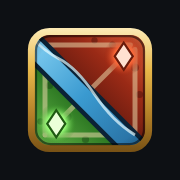
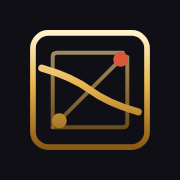
Новый логотип: миникарта в золотых линиях (меню, иконка вкладки, иконки приложения)
Claude-Session: https://claude.ai/code/session_012aQS4ELDHnsMw6dJfHtnZg

diff --git a/index.html b/index.html
@@ -28,26 +28,7 @@ try{var t=localStorage.getItem('kontrpik-theme');if(t!=='light'&&t!=='dark')t=ma
 </head>
 <body>
 <div class="bg-art" aria-hidden="true"></div>
-  <nav class="nav topbar" id="topbar" aria-label="Разделы" data-ta="navLabel"><a class="logo" id="home-link" href="#home" aria-label="На главную" data-ta="homeLabel" title="На главную"><svg class="logo-ic" width="40" height="40" viewBox="0 0 64 64" aria-hidden="true" focusable="false"><defs><linearGradient id="glg" gradientUnits="userSpaceOnUse" x1="0" y1="2" x2="0" y2="62"><stop offset="0" stop-color="#fff1c4"/><stop offset=".35" stop-color="#e8b84a"/><stop offset=".7" stop-color="#b07d26"/><stop offset="1" stop-color="#6e4a12"/></linearGradient>
-<linearGradient id="radlg" x1="0" y1="1" x2=".7" y2=".3"><stop offset="0" stop-color="#7fd65a"/><stop offset=".55" stop-color="#2f7a24"/><stop offset="1" stop-color="#173f13"/></linearGradient>
-<linearGradient id="direlg" x1="1" y1="0" x2=".3" y2=".7"><stop offset="0" stop-color="#ff7a4a"/><stop offset=".5" stop-color="#9a2a16"/><stop offset="1" stop-color="#3e0f0a"/></linearGradient>
-<linearGradient id="rivlg" x1="0" y1="0" x2="1" y2="1"><stop offset="0" stop-color="#9fe3ff"/><stop offset=".5" stop-color="#3a9ad0"/><stop offset="1" stop-color="#1f5a8a"/></linearGradient>
-<radialGradient id="rblg"><stop offset="0" stop-color="#f0ffe0"/><stop offset=".45" stop-color="#9bff7a"/><stop offset="1" stop-color="#2f8a1f" stop-opacity="0"/></radialGradient>
-<radialGradient id="dblg"><stop offset="0" stop-color="#fff0e0"/><stop offset=".45" stop-color="#ff6a3a"/><stop offset="1" stop-color="#a0200a" stop-opacity="0"/></radialGradient>
-<radialGradient id="shadelg" cx=".5" cy=".5" r=".7"><stop offset=".6" stop-color="#000" stop-opacity="0"/><stop offset="1" stop-color="#000" stop-opacity=".45"/></radialGradient>
-<clipPath id="clg"><rect x="6" y="6" width="52" height="52" rx="8"/></clipPath></defs><g clip-path="url(#clg)">
-<rect x="0" y="0" width="64" height="64" fill="url(#direlg)"/>
-<path d="M0 64 L0 0 L64 64 Z" fill="url(#radlg)"/>
-<g opacity=".35"><circle cx="14" cy="30" r="1.6" fill="#0d2a0a"/><circle cx="22" cy="44" r="1.8" fill="#0d2a0a"/><circle cx="10" cy="46" r="1.4" fill="#0d2a0a"/><circle cx="30" cy="54" r="1.6" fill="#0d2a0a"/>
-<circle cx="42" cy="12" r="1.6" fill="#2a0806"/><circle cx="52" cy="22" r="1.8" fill="#2a0806"/><circle cx="34" cy="10" r="1.4" fill="#2a0806"/><circle cx="54" cy="34" r="1.6" fill="#2a0806"/></g><g fill="none" stroke="#e8d6a8" stroke-opacity=".55" stroke-width="2.2" stroke-linecap="round">
-<path d="M12 52 L12 14 Q12 12 14 12 L50 12"/><path d="M12 52 L50 52 Q52 52 52 50 L52 14"/><path d="M14 50 L50 14"/></g><path d="M-4 2 L62 68" stroke="#0b2236" stroke-width="12"/>
-<path d="M-4 2 L62 68" stroke="url(#rivlg)" stroke-width="8"/>
-<path d="M2 4 Q10 14 18 18 T34 34 T52 52" fill="none" stroke="#e8fbff" stroke-width="1.2" stroke-opacity=".7"/>
-<circle cx="17" cy="47" r="9" fill="url(#rblg)"/><circle cx="47" cy="17" r="9" fill="url(#dblg)"/>
-<path d="M17 41 L21 47 L17 53 L13 47 Z" fill="#eaffd8" stroke="#1f5a12" stroke-width="1"/>
-<path d="M47 11 L51 17 L47 23 L43 17 Z" fill="#ffe0d0" stroke="#6a1a0a" stroke-width="1"/>
-<rect x="0" y="0" width="64" height="64" fill="url(#shadelg)"/>
-</g><rect x="6" y="6" width="52" height="52" rx="8" fill="none" stroke="url(#glg)" stroke-width="3.2"/><rect x="8" y="8" width="48" height="48" rx="6.5" fill="none" stroke="#000" stroke-opacity=".5" stroke-width="1"/></svg></a><div class="tabs-nav"><a href="#counterpick"><span class="n">01</span><span data-t="nav1">Контрпик</span></a><a href="#meta"><span class="n">02</span><span data-t="nav3">Мета</span></a><a href="#match"><span class="n">03</span><span data-t="nav4">Разбор</span></a><a href="#tips-block"><span class="n">04</span><span data-t="nav2">Фишки</span></a></div><div class="nav-actions"><button class="install" id="install" hidden data-t="install">Установить</button><button class="theme-btn" id="theme-btn" type="button"><svg class="i-sun" width="20" height="20" viewBox="0 0 24 24" aria-hidden="true"><circle cx="12" cy="12" r="4.2"/><path d="M12 2.5v2.6M12 18.9v2.6M2.5 12h2.6M18.9 12h2.6M5.3 5.3l1.8 1.8M16.9 16.9l1.8 1.8M5.3 18.7l1.8-1.8M16.9 7.1l1.8-1.8"/></svg><svg class="i-moon" width="20" height="20" viewBox="0 0 24 24" aria-hidden="true"><path d="M20 14.6A8.2 8.2 0 0 1 9.4 4a8.2 8.2 0 1 0 10.6 10.6Z"/></svg></button><div class="lang" role="group" aria-label="Language"><button data-lang="ru">RU</button><button data-lang="en">EN</button></div></div></nav>
+  <nav class="nav topbar" id="topbar" aria-label="Разделы" data-ta="navLabel"><a class="logo" id="home-link" href="#home" aria-label="На главную" data-ta="homeLabel" title="На главную"><svg class="logo-ic" width="40" height="40" viewBox="0 0 64 64" aria-hidden="true" focusable="false"><defs><linearGradient id="lgC" gradientUnits="userSpaceOnUse" x1="0" y1="6" x2="0" y2="58"><stop offset="0" stop-color="#fff3cc"/><stop offset=".45" stop-color="#e9b64e"/><stop offset="1" stop-color="#8a5a14"/></linearGradient></defs><rect x="6" y="6" width="52" height="52" rx="7" fill="#0f0f15" stroke="url(#lgC)" stroke-width="2.6"/><g fill="none" stroke="url(#lgC)" stroke-linecap="round"><path d="M15 49V17q0-2 2-2h30" stroke-width="1.8" opacity=".6"/><path d="M15 49h32q2 0 2-2V17" stroke-width="1.8" opacity=".6"/><path d="M17 47 47 17" stroke-width="1.8" opacity=".6"/><path d="M10 22q14 4 22 10t22 10" stroke-width="3.2"/></g><circle cx="18" cy="46" r="3.4" fill="url(#lgC)"/><circle cx="46" cy="18" r="3.4" fill="#d9573a"/></svg></a><div class="tabs-nav"><a href="#counterpick"><span class="n">01</span><span data-t="nav1">Контрпик</span></a><a href="#meta"><span class="n">02</span><span data-t="nav3">Мета</span></a><a href="#match"><span class="n">03</span><span data-t="nav4">Разбор</span></a><a href="#tips-block"><span class="n">04</span><span data-t="nav2">Фишки</span></a></div><div class="nav-actions"><button class="install" id="install" hidden data-t="install">Установить</button><button class="theme-btn" id="theme-btn" type="button"><svg class="i-sun" width="20" height="20" viewBox="0 0 24 24" aria-hidden="true"><circle cx="12" cy="12" r="4.2"/><path d="M12 2.5v2.6M12 18.9v2.6M2.5 12h2.6M18.9 12h2.6M5.3 5.3l1.8 1.8M16.9 16.9l1.8 1.8M5.3 18.7l1.8-1.8M16.9 7.1l1.8-1.8"/></svg><svg class="i-moon" width="20" height="20" viewBox="0 0 24 24" aria-hidden="true"><path d="M20 14.6A8.2 8.2 0 0 1 9.4 4a8.2 8.2 0 1 0 10.6 10.6Z"/></svg></button><div class="lang" role="group" aria-label="Language"><button data-lang="ru">RU</button><button data-lang="en">EN</button></div></div></nav>
 <div class="wrap">
   <section id="home" class="wrap home" style="max-width:none;margin:0" aria-label="Главная" data-ta="homeLabel">
   <div class="landing" id="landing">

diff --git a/public/sw.js b/public/sw.js
@@ -1,7 +1,7 @@
 // Service worker: офлайн на последних загруженных данных.
 // Оболочка и данные — «сеть, потом кэш»; файлы со хешем, иконки, шрифты — «кэш, потом сеть».
 // Запросы к OpenDota и Twitch не кэшируются.
-const CACHE = 'kontrpik-v4';
+const CACHE = 'kontrpik-v5';
 const BASE = new URL(self.registration.scope).pathname;
 const SHELL = [BASE, BASE + 'manifest.webmanifest', BASE + 'data/stats.json', BASE + 'data/positions.json', BASE + 'data/tips.json', BASE + 'data/patch.json'];
 
